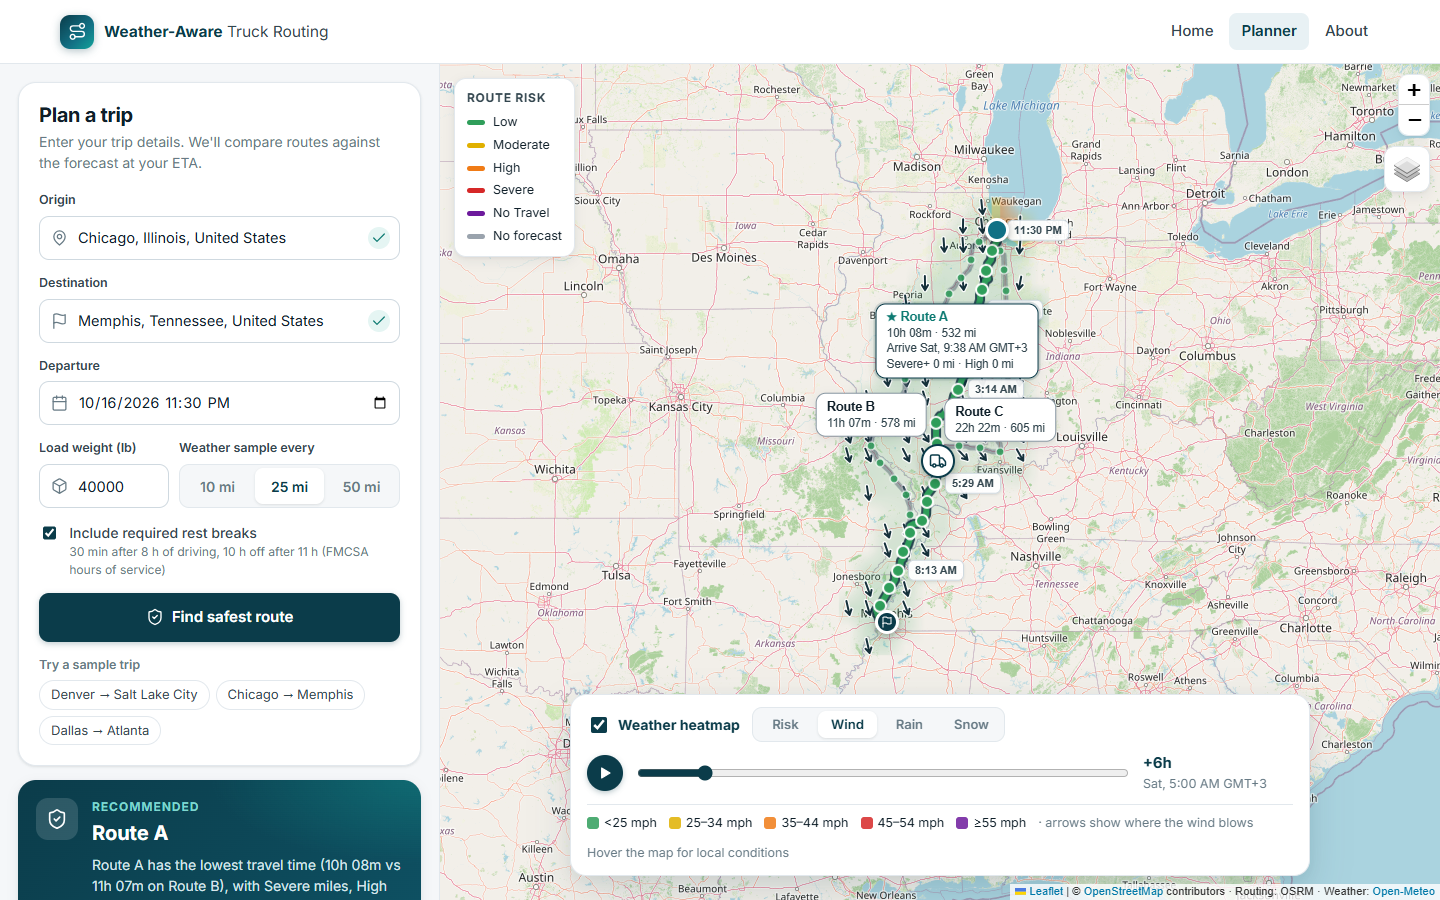
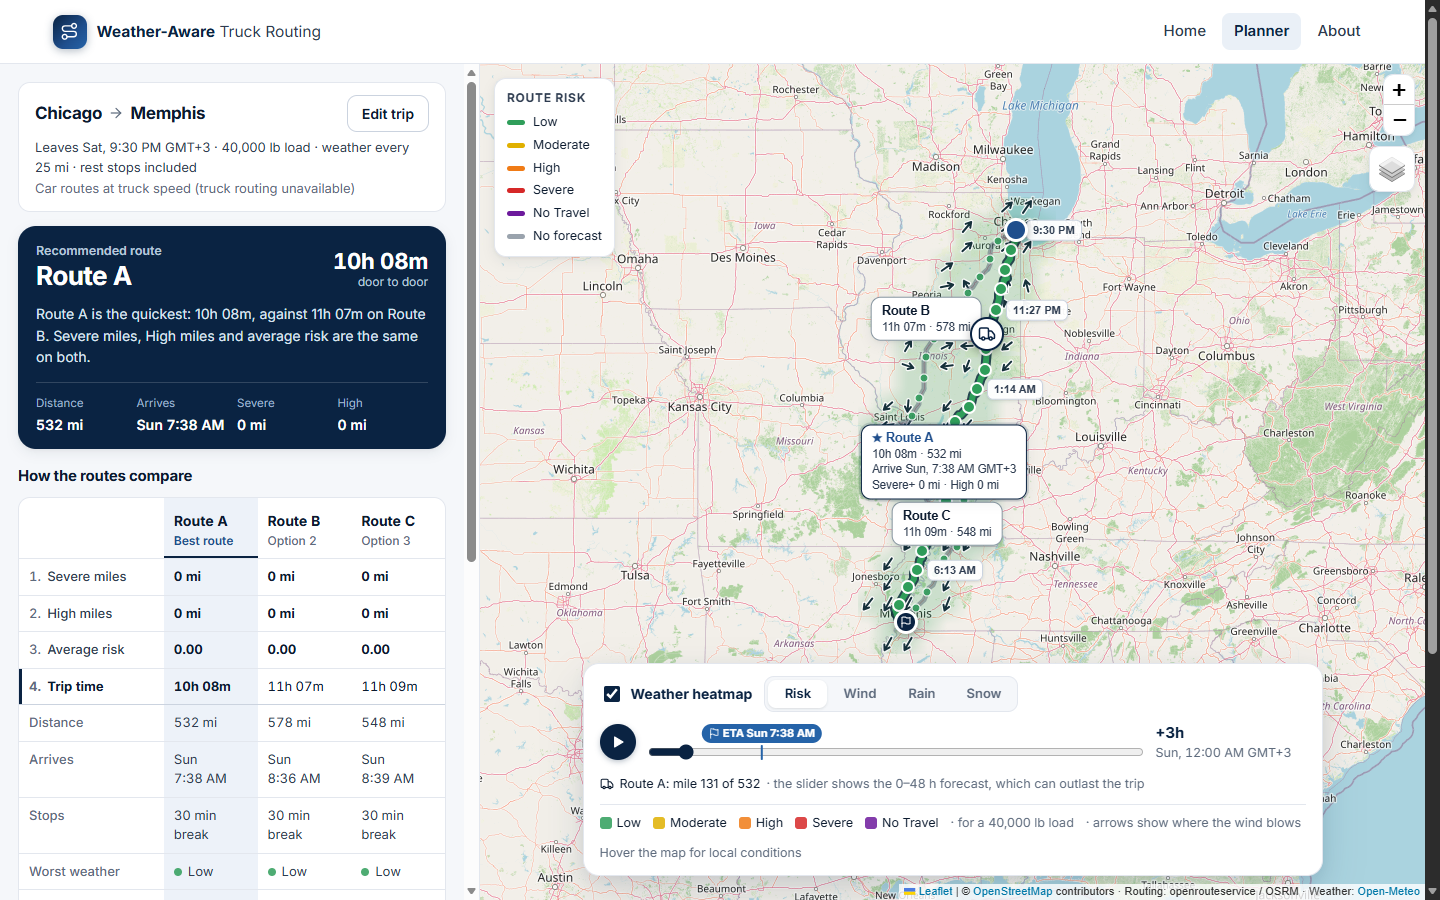
README and screenshot for the current planner
- New screenshot: trip summary, recommended route card, route comparison,
  and the map with routes, checkpoints, heatmap, truck marker and ETA mark.
- "Using the planner": the five steps a driver goes through on the page.
- Loom walkthrough link next to the live app.
- API section lists the plan fields (stop_timeline, extra_rests,
  rank_keys, ranking) instead of a one-line summary.
- Correct openrouteservice quota figures (2,000 a day, 40 a minute; a new
  plan uses about 5-15) and what happens when they run out.
- Wording and file lists match the current components.

diff --git a/README.md b/README.md
@@ -4,9 +4,18 @@ A React + Django web app that helps a truck driver choose the safest route based
 
 Enter an origin, destination, departure time and load weight. The app finds **3 route options**, checks the forecast every **10 / 25 / 50 miles** for the hour the truck will reach each point, rates the risk with the spec's rules and recommends a route. The map shows every route, checkpoint, risk level, ETA and route summary, plus a **weather heatmap along the corridor with a 0–48 h slider**.
 
-**Live app:** https://weather-aware-truck-routing-jhonacestina.vercel.app/
+- **Live app:** https://weather-aware-truck-routing-jhonacestina.vercel.app/
+- **Walkthrough (Loom):** https://www.loom.com/share/58b0fc03fb0448399d0782b58c226827
 
-![Screenshot](docs/screenshot.png)
+![The planner: trip summary, recommended route, route comparison, and the map with the corridor heatmap](docs/screenshot.png)
+
+## Using the planner
+
+1. **Plan a trip.** Enter the origin and destination (pick from the suggestions), the departure time (in your own time zone, which the form shows), the load weight, and how often to check the weather: every 10, 25 or 50 miles. Required rest stops are included unless you untick them. Or click a sample trip.
+2. **Read the answer.** The form folds into a one-line trip summary (*Edit trip* brings it back). Below it, the **recommended route** card gives the route, its door-to-door time, the reason in one sentence, and its distance, arrival time and Severe / High miles.
+3. **See why.** *How the routes compare* puts the three routes side by side. The rows are the ranking rules in the brief's order; the best value in each row is bold, and the rule that decided is marked on the left. Under that: distance, arrival, stops, the worst weather on the route, and its miles by risk level.
+4. **Check the road.** The map shows all three routes coloured by risk, every checkpoint with its arrival time (hover for the weather there), and the selected route's checkpoint table. Click a route in the table or on the map to select it.
+5. **Look ahead.** The heatmap shows risk, wind, rain or snow along the corridor for each hour from departure to +48 h. The 🚚 marker shows where the truck would be at that hour; the blue mark on the slider is the arrival time.
 
 ## Requirements at a glance
 
@@ -16,7 +25,7 @@ Enter an origin, destination, departure time and load weight. The app finds **3 
 | 3 route options from a routing API | `route_options.py`, `services/ors.py`, `services/osrm.py` | `test_route_options.py`, `test_ors.py` |
 | Weather every 10 / 25 / 50 mi at the truck's ETA | `planner.py`, `services/weather.py` | `test_planner.py`, `test_weather.py` |
 | Risk thresholds and load rules | `risk.py` (mirrored in `risk.ts` for the map) | `test_risk.py`, `risk.test.ts` |
-| Recommendation (Severe → High → avg risk → time) | `recommend.py`, `RouteComparison.tsx` | `test_recommend.py`, `RouteComparison.test.tsx` |
+| Recommendation (Severe → High → avg risk → time) | `recommend.py`, `RecommendationCard.tsx`, `RouteComparison.tsx` | `test_recommend.py`, `RecommendationCard.test.tsx`, `RouteComparison.test.tsx` |
 | Routes, checkpoints, risk, ETAs, summaries on a map | `map/RoutesLayer.tsx`, `CheckpointTable.tsx` | `CheckpointTable.test.tsx`, `RouteComparison.test.tsx` |
 | Corridor heatmap with a 0–48 h slider | `heatmap.py`, `map/heatmapFrames.ts`, `map/HeatmapControls.tsx` | `test_heatmap.py`, `heatmapFrames.test.ts`, `HeatmapControls.test.tsx` |
 
@@ -64,7 +73,7 @@ Django REST API ── route_options ── openrouteservice (truck roads) + OSR
 - **Truck roads.** Routes come from openrouteservice's heavy-goods-vehicle profile, given the truck's gross weight (load + 33,000 lb empty truck), so roads with a lower weight limit are avoided.
 - **US truck times.** That profile drives rural interstates at ~44 mph (its speeds suit European truck limits). So each route is timed with OSRM's US road speeds along the same path, capped at **65 mph**. Chicago → Memphis: 9.6 h of driving, not 11.9 h.
 - **Three options.** Neither service returns three alternatives for long trips, so extra candidates are routed through via-points pushed to either side of the trip, wide detours first, then tighter ones if the third route would otherwise need an extra overnight rest. Out-and-back detours are cut. Candidates that are more than 50% slower, or share over 80% of their road with a chosen route, are dropped. The three quickest door-to-door are kept.
-- **Extra overnight rests are flagged.** Near the 11-hour driving limit, a route only a few percent longer needs a whole extra 10-hour rest. When no closer alternative exists (e.g. Kansas City → Nashville), that route is still shown and ranked on its real door-to-door time, with a warning and an *Extra overnight rest* badge so the reason is obvious.
+- **Extra overnight rests are flagged.** Near the 11-hour driving limit, a route only a few percent longer needs a whole extra 10-hour rest. When no closer alternative exists (e.g. Kansas City → Nashville), that route is still shown and ranked on its real door-to-door time, with a warning and an *Extra 10 h rest* note in the comparison table so the reason is obvious.
 - **Fallback.** Without a key, or if truck routing fails or its daily quota runs out, OSRM car routes are used and the plan says so. All three routes in a plan always use the same speed model.
 
 ### Checkpoints and ETAs (`planner.py`, `hos.py`)
@@ -90,7 +99,7 @@ Load rules: ≥55 mph → No Travel for any load · 45–54 mph + >30,000 lb →
 **Band edges.** Neighbouring ranges share an edge, so each band is read as `[lower, next lower)`: 0.25 in/hr is High, 34.9 mph is Moderate. No Travel follows the table literally: wind ≥55 is inclusive, rain >1.00 and snow >3.0 are not. Load limits mean "more than" (exactly 30,000 lb doesn't trigger). Every edge has a test. Displayed values are rounded down, so 0.496 in/hr shows as 0.49 and never appears to be in the next band.
 
 ### Recommendation (`recommend.py`)
-Routes are ranked in the spec's order: **fewest Severe miles → fewest High miles → lowest average risk** (distance-weighted, Low 0 … No Travel 4) **→ shortest door-to-door time**. No Travel miles are compared first, so a route through a No Travel zone never beats one without. The planner shows the routes side by side in a comparison table, with these rules as numbered rows in this order. The recommended route's column is shaded, the best value in each row is bold, and the rule that picked the winner is marked. The server sends the exact rounded values it ranked on (`rank_keys`) and the deciding rule (`ranking.decided_by`), so the table can't disagree with the decision. The recommendation says it in one sentence, e.g. *"Route B has the fewest High miles: 0.0 mi, against 42.0 mi on Route A. Severe miles is the same on both."*
+Routes are ranked in the spec's order: **fewest Severe miles → fewest High miles → lowest average risk** (distance-weighted, Low 0 … No Travel 4) **→ shortest door-to-door time**. No Travel miles are compared first, so a route through a No Travel zone never beats one without. The planner shows the routes side by side in a comparison table, with these rules as numbered rows in this order. The recommended route's column is shaded, the best value in each row is bold, and the rule that picked the winner is marked. The server sends the exact rounded values it ranked on (`rank_keys`) and the deciding rule (`ranking.decided_by`), so the table can't disagree with the decision. The recommendation says it in one sentence, e.g. *"Route B has the fewest High miles: 0.0 mi, against 42.0 mi on Route A. Severe miles is the same on both."* or, when the weather is the same everywhere, *"Route A is the quickest: 10h 08m, against 11h 07m on Route B. Severe miles, High miles and average risk are the same on both."*
 
 ### Heatmap (`heatmap.py`, `map/heatmapFrames.ts`)
 - The server builds a forecast grid around the routes (60 km buffer, ~160 locations) and returns **49 hourly frames** (0–48 h from departure) for four layers: load-aware **Risk**, **Wind**, **Rain**, **Snow**.
@@ -156,7 +165,12 @@ docker run -p 8000:8000 -e DJANGO_SECRET_KEY=change-me -e DJANGO_ALLOWED_HOSTS=l
 | `GET /api/tiles/<style>/<z>/<x>/<y>` | Map tiles, fetched by the server (`streets`, `terrain`, `satellite`, `labels`). The map loads tiles straight from the tile servers and only uses this for a tile that fails |
 | `GET /api/health` | Health check |
 
-`POST /api/plan` takes `{origin, destination, departure, load_lbs, interval_miles, rest_breaks, include_heatmap}`. Places are `{label, lat, lon}` from the autocomplete, or `{label}` to geocode on the server. `departure` is ISO-8601, from 1 hour ago to 14 days ahead; `interval_miles` is 10, 25 or 50. The response has the routes (with checkpoints, risk miles and rank), the recommendation and its reason, warnings, `routing` (`truck` or `car`, and the gross weight), the `corridor` and, unless `include_heatmap` is false, the heatmap. Errors are `{detail}`: 400 for bad input, an unknown place or no drivable route; 429 when a client sends too many requests; 502 when an outside service fails.
+`POST /api/plan` takes `{origin, destination, departure, load_lbs, interval_miles, rest_breaks, include_heatmap}`. Places are `{label, lat, lon}` from the autocomplete, or `{label}` to geocode on the server. `departure` is ISO-8601, from 1 hour ago to 14 days ahead; `interval_miles` is 10, 25 or 50. The response has:
+
+- `routes`: each with its checkpoints (mile, ETA, weather, risk level and reasons), `risk_miles`, `avg_risk`, `rank`, door-to-door `duration_hours` and `driving_hours`, `stops` and `stop_timeline` (where and when each break and rest happens), `extra_rests` (10 h rests beyond what the route with the fewest needs) and `rank_keys` (the exact values it was ranked on);
+- `recommended_route_id`, `recommendation_reason` and `ranking` (the criteria in order and `decided_by`, the one that picked the winner);
+- `warnings`, `routing` (`truck` or `car`, and the gross weight) and `corridor`;
+- the heatmap, unless `include_heatmap` is false. Errors are `{detail}`: 400 for bad input, an unknown place or no drivable route; 429 when a client sends too many requests; 502 when an outside service fails.
 
 ## Project structure
 
@@ -170,14 +184,16 @@ backend/routing/
   tests/             backend tests (outside services mocked)
 frontend/src/
   pages/             Home, Planner, About
-  components/        trip form, place search, route comparison, checkpoint table
-  map/               map panel, routes, heatmap drawing + controls, wind arrows, truck marker
+  components/        trip form, place search, recommendation card, route comparison,
+                     checkpoint table, home page illustration
+  map/               map panel, routes, heatmap drawing + controls (ETA mark), wind arrows,
+                     truck marker
   risk.ts, api.ts, types.ts, *.test.ts(x)
 ```
 
 ## Limitations
 - **Truck restrictions:** weight limits are respected; height and hazmat aren't modelled, since the form doesn't ask for them.
-- **Free-tier quotas:** truck routing allows a limited number of requests a day (a new plan uses 5–9; repeats are cached for 6 h). When it runs out, plans use car routes. The free weather API allows ~600 locations a minute per server IP, and on shared hosting such as Vercel other apps use the same IP. A plan that hits the limit waits for it to lift: one request probes every 5 s, so the plan carries on within seconds of the limit resetting (at most ~75 s). The page says why it's waiting. A coast-to-coast trip at 10-mile spacing always needs more than one minute's quota.
+- **Free-tier quotas:** openrouteservice's free plan allows 2,000 route requests a day and 40 a minute. A new plan uses about 5–15 (the main route plus the detours tried for routes B and C); repeats are cached for 6 h. When the quota runs out, plans use car routes and say so, and truck routes come back by themselves when it renews. The free weather API allows ~600 locations a minute per server IP, and on shared hosting such as Vercel other apps use the same IP. A plan that hits the limit waits for it to lift: one request probes every 5 s, so the plan carries on within seconds of the limit resetting (at most ~75 s). The page says why it's waiting. A coast-to-coast trip at 10-mile spacing always needs more than one minute's quota.
 - **Forecast range:** forecasts end after 16 days. Checkpoints beyond that show as **Unknown** and are left out of the average risk, with a warning.
 - **Hours of service** cover the two rules that apply within one trip; sleeper-berth splits and weekly limits aren't modelled.
 - The cache is in memory, per process. Use Redis when running several instances.
